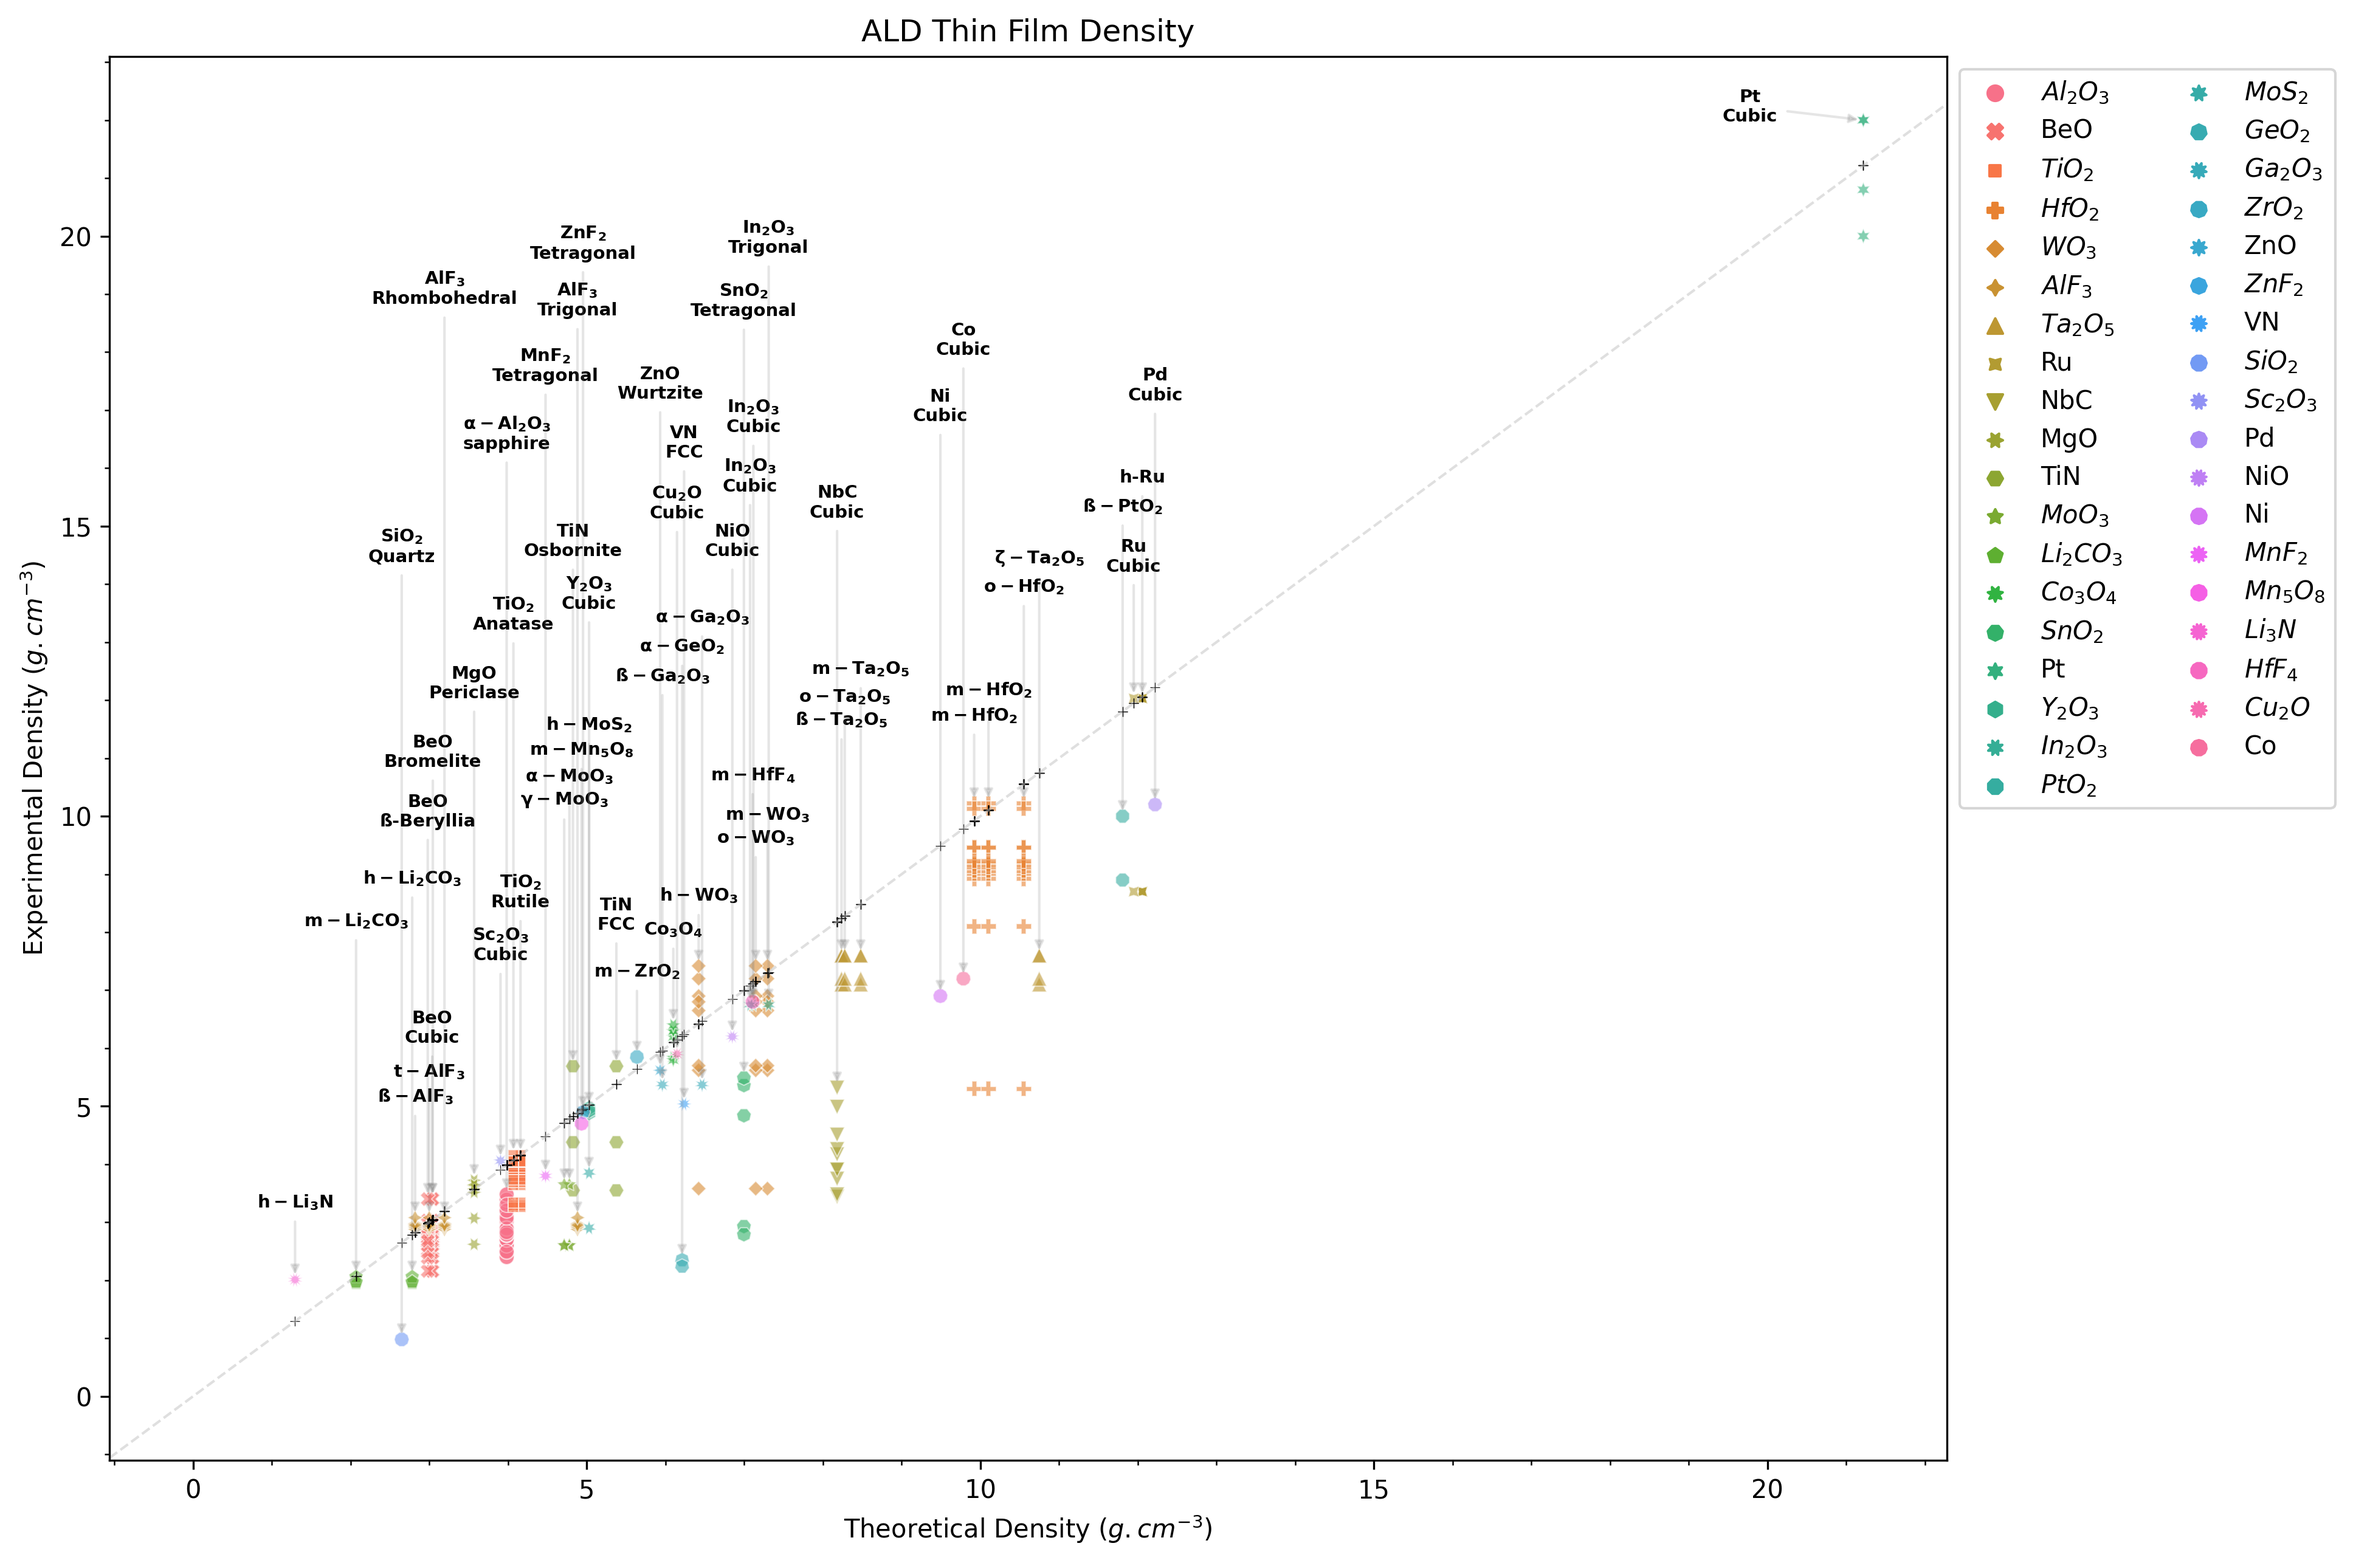
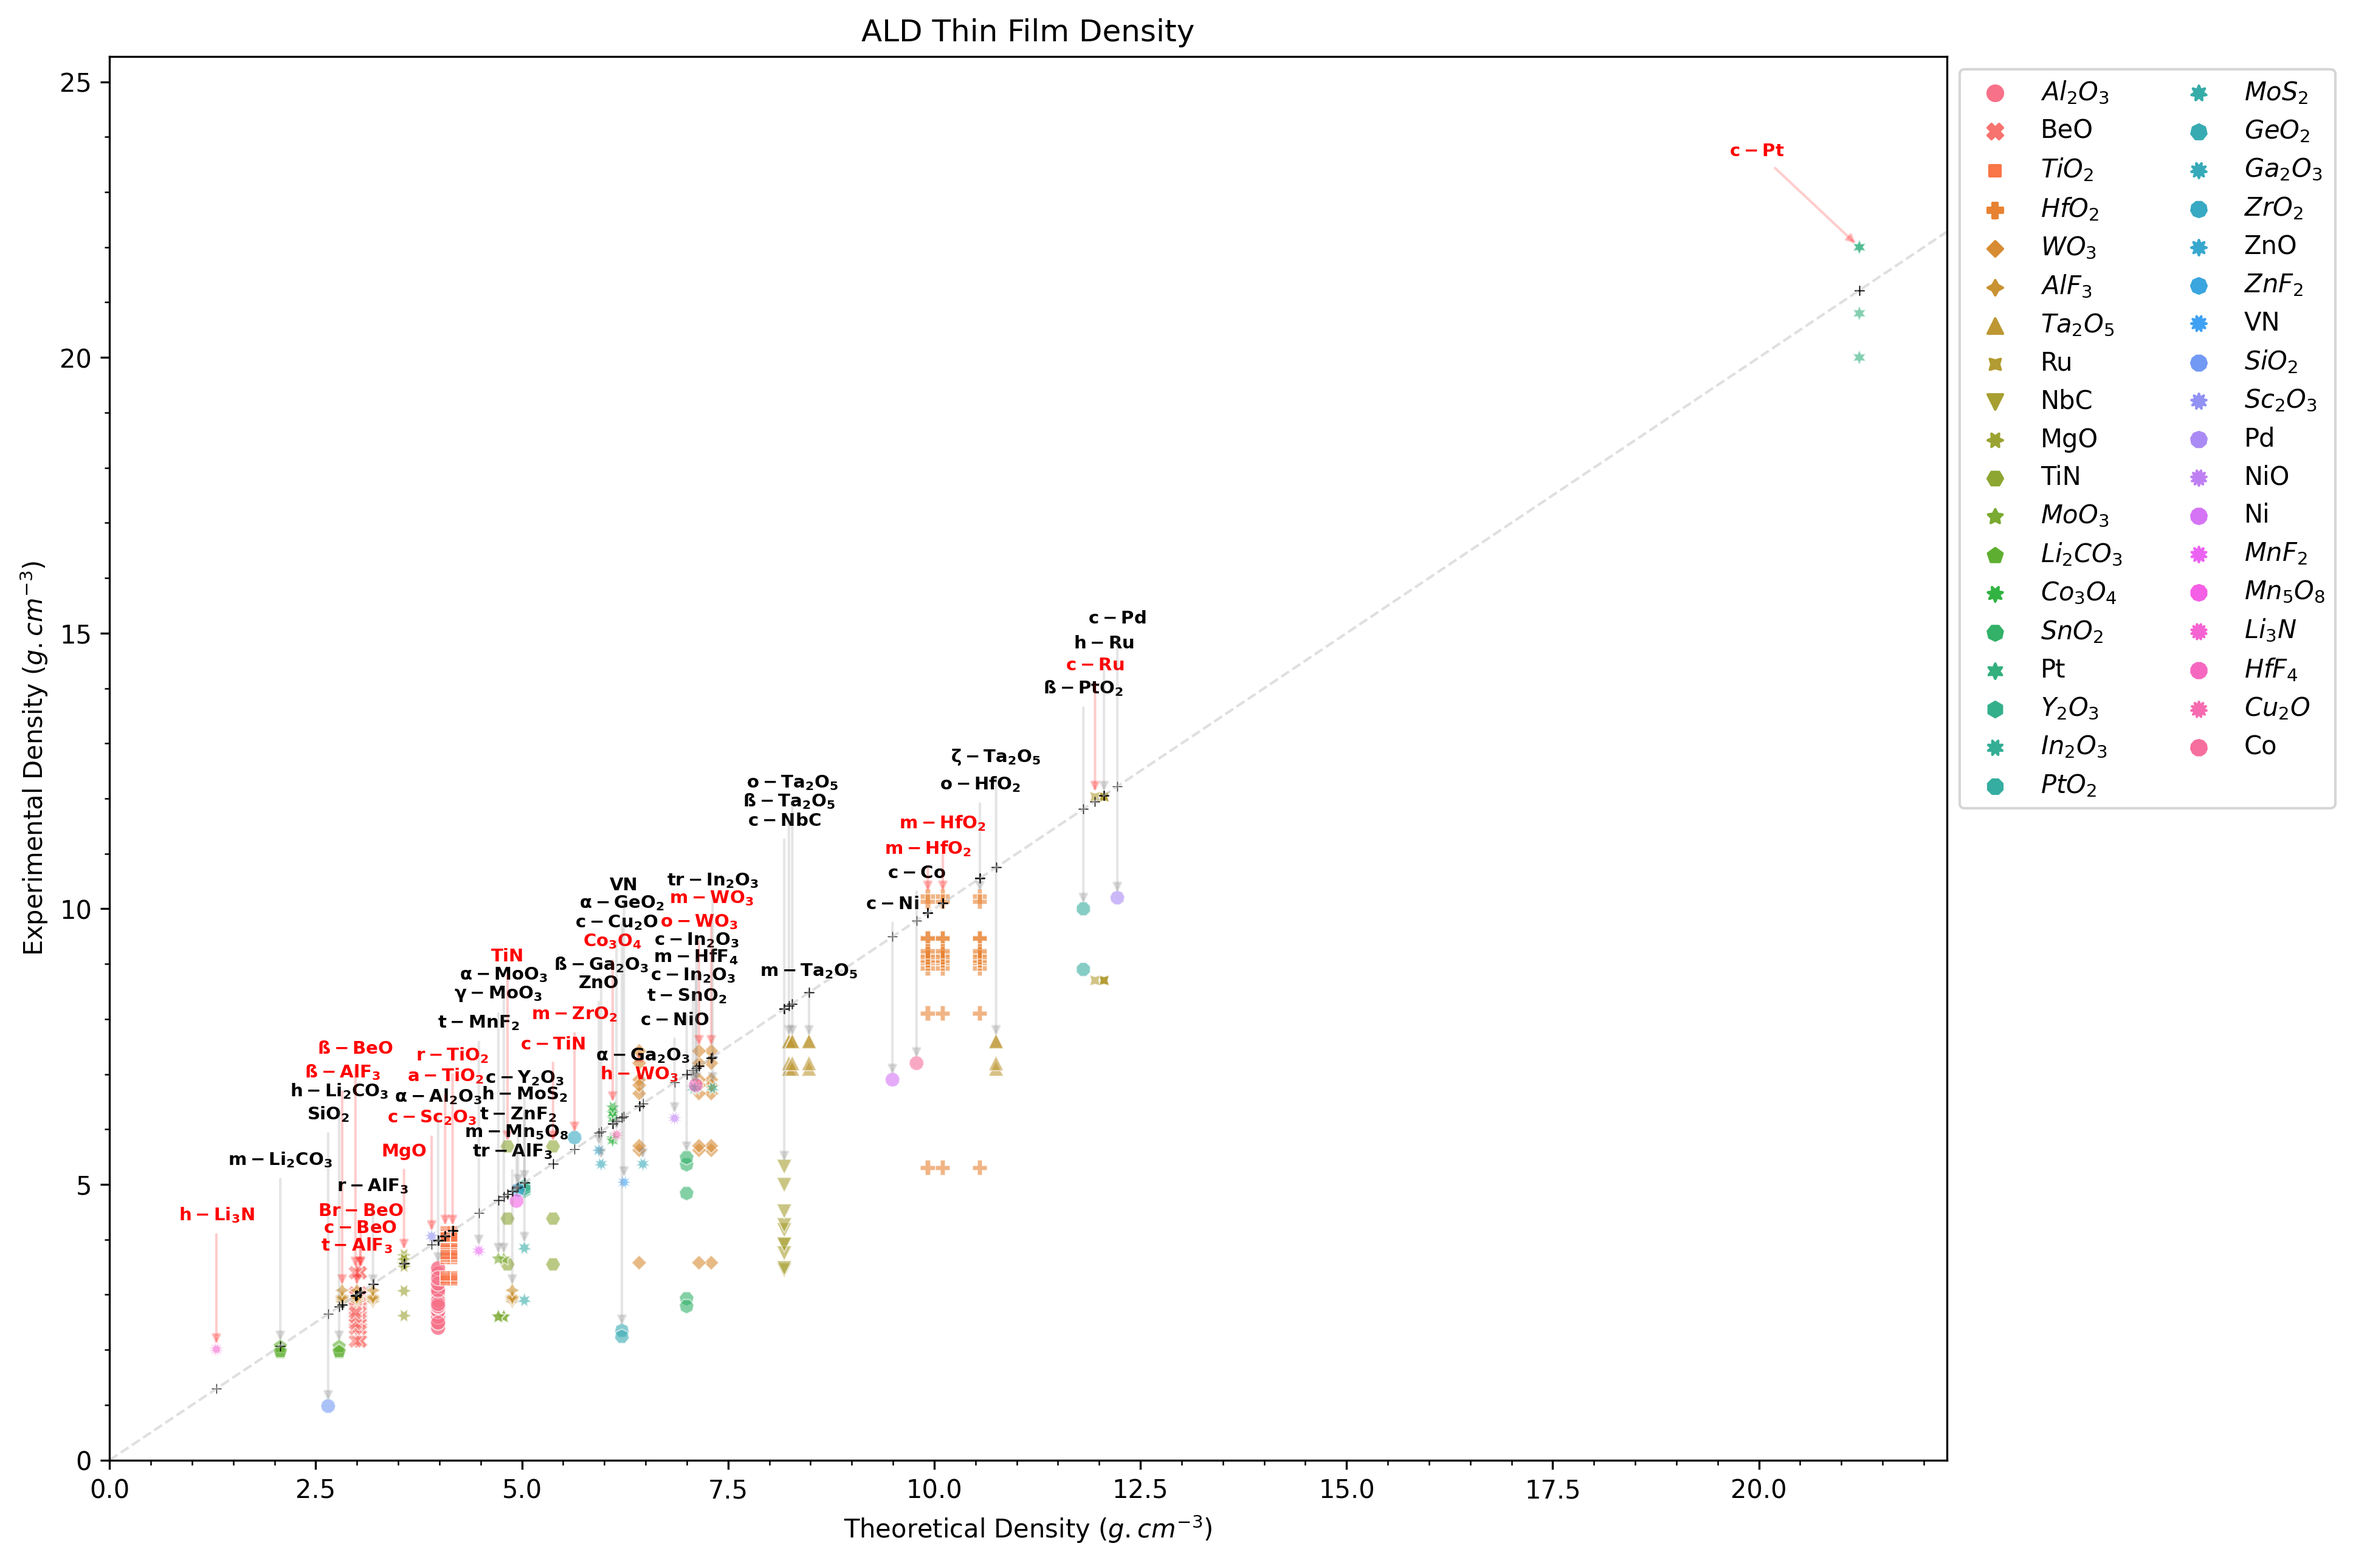
ald ET refactored code to keep labels within margins

diff --git a/scripts/ald-density-ET.py b/scripts/ald-density-ET.py
@@ -311,13 +311,13 @@ def place_labels_all(pnt_lbl, x_thr, y_thr, y_exp, seq_labels_all, flags, visual
     # even = ~((seq_labels_all%2) or -1)
     if oneline:
         # print(seq_labels_all, y_exp, pnt_lbl)
-        equ_x_offset=3.25 # x offset
+        equ_x_offset=1 # x offset
         scatter_shift=6
-        y_scatter = ((seq_labels_all+scatter_shift)%13*0.45)
+        y_scatter = ((seq_labels_all+scatter_shift)%13*0.3)
         # flip_arrow=True
         # pnt_scalor=2.0 # expansion scale
         # y_line=1.0 # line to expand away from
-        equ_slope=1.0 # slope
+        equ_slope=1.1 # slope
 
         # halign = "left"
         valign = "bottom"
@@ -524,6 +524,75 @@ def place_labels_ab(pnt_lbl, x_thr, y_thr, y_exp, seq_lbl_lines, flags, visuals)
 
     return x_txt, y_txt, valign, halign, text_color, arrow_color
 
+def keep_labels_inside_margins(label_coords, ax, axis_margins={}):
+    x_txt, y_txt = label_coords
+
+    delta_x = ax.get_xlim()[1] - ax.get_xlim()[0]
+    delta_y = ax.get_ylim()[1] - ax.get_ylim()[0]
+
+    margin_x_high = delta_x * axis_margins.get("mxh")
+    margin_x_low = delta_x * axis_margins.get("mxl")
+    margin_y_high = delta_y * axis_margins.get("myh")
+    margin_y_low = delta_y * axis_margins.get("myl")
+
+    lim_y_low = ax.get_ylim()[0] + (margin_y_low)
+    lim_y_high = ax.get_ylim()[1] - (margin_y_high)
+
+    lim_x_low = ax.get_xlim()[0] + (margin_x_low)
+    lim_x_high = ax.get_xlim()[1] - (margin_x_high)
+
+    # create margin booleans
+    # point_in_margin_x_low = x_thr <= lim_x_low
+    # point_in_margin_x_high = x_thr >= lim_x_high
+
+    # point_in_margin_y_low = y_exp <= lim_y_low
+    # point_in_margin_y_high = y_exp >= lim_y_high
+
+
+    # BRING ANNOTATIONS INSIDE THE MARGINS OF THE PLOT
+    while y_txt > lim_y_high:
+        # print(f"\nH {y_exp+oy:.4f} > lim_y_high {lim_y_high:.4f} -- {oy}")
+        if abs(round(y_txt, 5)) <= abs(round(lim_y_high, 5)):
+            y_txt = lim_y_high
+
+        if lim_x_high < 0:
+            y_txt *= 1.01
+        else:
+            y_txt *= 0.99
+
+    while x_txt > lim_x_high:
+        # print(f"\nH {x_txt:.4f} > lim_x_high {lim_x_high:.4f} -- {ox}")
+        if abs(round(x_txt, 5)) <= abs(round(lim_x_high, 5)):
+            x_txt = lim_x_high
+
+        if lim_x_high < 0:
+            x_txt *= 1.01
+        else:
+            x_txt *= 0.99
+
+    while y_txt < lim_y_low:
+        # print(f"\nL {y_txt:.4f} < lim_y_low {lim_y_low:.4f}")
+        if abs(round(y_txt, 5)) >= abs(round(lim_y_low, 5)):
+            y_txt = lim_y_low
+
+        if lim_y_low < 0:
+            y_txt *= 0.995
+        else:
+            y_txt *= 1.005
+
+    while x_txt < lim_x_low:
+        # print(f"\nL {x_thr-ox:.4f} < lim_x_low {lim_x_low:.4f}")
+        if abs(round(x_txt, 5)) >= abs(round(lim_x_low, 5)):
+            x_txt = lim_x_low
+
+        if lim_x_low < 0:
+            x_txt *= 0.995
+        else:
+            x_txt *= 1.005
+
+
+    return [x_txt, y_txt]
+
 def plot_data1(df, x, y, z, point_labels,  **kwargs):
     ald_print_info(df, label="DF PLOTTING")
 
@@ -548,6 +617,9 @@ def plot_data1(df, x, y, z, point_labels,  **kwargs):
     ax.set_xlabel(" ".join([x, kwargs.get('units')]))
     ax.set_ylabel(" ".join([y, kwargs.get('units')]))
 
+
+
+    g1.set(ylim=(0,(df[x].max()*1.20)), xlim=(0,None))
 
     # PLOT LABELS
     bold_labels = True
@@ -620,32 +692,8 @@ def plot_data1(df, x, y, z, point_labels,  **kwargs):
 
 
         # CREATE SECTIONS FOR LABEL PLACEMENT
-        # PLOT MARGINS
-        mxh = 0.10 # 13% margins
-        mxl = 0.04 # 2% margins
-        myh = 0.04 # 6% margins
-        myl = 0.04 # 2% margins
-
         delta_x = ax.get_xlim()[1] - ax.get_xlim()[0]
         delta_y = ax.get_ylim()[1] - ax.get_ylim()[0]
-
-        margin_x_high = delta_x * mxh
-        margin_x_low = delta_x * mxl
-        margin_y_high = delta_y * myh
-        margin_y_low = delta_y * myl
-
-        lim_y_low = ax.get_ylim()[0] + (margin_y_low)
-        lim_y_high = ax.get_ylim()[1] - (margin_y_high)
-
-        lim_x_low = ax.get_xlim()[0] + (margin_x_low)
-        lim_x_high = ax.get_xlim()[1] - (margin_x_high)
-
-        # create margin booleans
-        point_in_margin_x_low = x_thr <= lim_x_low
-        point_in_margin_x_high = x_thr >= lim_x_high
-
-        point_in_margin_y_low = y_exp <= lim_y_low
-        point_in_margin_y_high = y_exp >= lim_y_high
 
 
         # PLOT SECTION X AXIS
@@ -682,46 +730,16 @@ def plot_data1(df, x, y, z, point_labels,  **kwargs):
         x_txt, y_txt, valign, halign, text_color, arrow_color = place_labels_all(pnt_lbl, x_thr, y_thr, y_exp, seq_labels_all, flags, visuals)
         # x_txt, y_txt, valign, halign, text_color, arrow_color = place_labels_ab(pnt_lbl, x_thr, y_thr, y_exp, seq_lbl_lines, flags, visuals)
 
-        # BRING ANNOTATIONS INSIDE THE MARGINS OF THE PLOT
-        while y_txt > lim_y_high:
-            # print(f"\nH {y_exp+oy:.4f} > lim_y_high {lim_y_high:.4f} -- {oy}")
-            if abs(round(y_txt, 5)) <= abs(round(lim_y_high, 5)):
-                y_txt = lim_y_high
 
-            if lim_x_high < 0:
-                y_txt *= 1.01
-            else:
-                y_txt *= 0.99
+        # PLOT MARGINS
+        axis_margins = {
+            "mxl": 0.04, # 4% margins
+            "myh": 0.04, # 4% margins
+            "mxh": 0.10, # 10% margins
+            "myl": 0.04 # 4% margins
+        }
+        x_txt, y_txt = keep_labels_inside_margins([x_txt, y_txt], ax=ax, axis_margins=axis_margins)
 
-        while x_txt > lim_x_high:
-            # print(f"\nH {x_txt:.4f} > lim_x_high {lim_x_high:.4f} -- {ox}")
-            if abs(round(x_txt, 5)) <= abs(round(lim_x_high, 5)):
-                x_txt = lim_x_high
-
-            if lim_x_high < 0:
-                x_txt *= 1.01
-            else:
-                x_txt *= 0.99
-
-        while y_txt < lim_y_low:
-            # print(f"\nL {y_txt:.4f} < lim_y_low {lim_y_low:.4f}")
-            if abs(round(y_txt, 5)) >= abs(round(lim_y_low, 5)):
-                y_txt = lim_y_low
-
-            if lim_y_low < 0:
-                y_txt *= 0.995
-            else:
-                y_txt *= 1.005
-
-        while x_txt < lim_x_low:
-            # print(f"\nL {x_thr-ox:.4f} < lim_x_low {lim_x_low:.4f}")
-            if abs(round(x_txt, 5)) >= abs(round(lim_x_low, 5)):
-                x_txt = lim_x_low
-
-            if lim_x_low < 0:
-                x_txt *= 0.995
-            else:
-                x_txt *= 1.005
 
 
         pnt_coords = (x_thr, y_exp)
@@ -761,7 +779,7 @@ def plot_data1(df, x, y, z, point_labels,  **kwargs):
 
 fig2 = plot_data1(df_merged, x=density_thr, y=density_exp, z=key, point_labels="Label", units=density_units)
 
-fig2.savefig('plots/plotDensities-6.png', dpi=300, bbox_inches="tight")
+fig2.savefig('plots/plotDensities-5.png', dpi=300, bbox_inches="tight")
 
 # plt.show()
 
